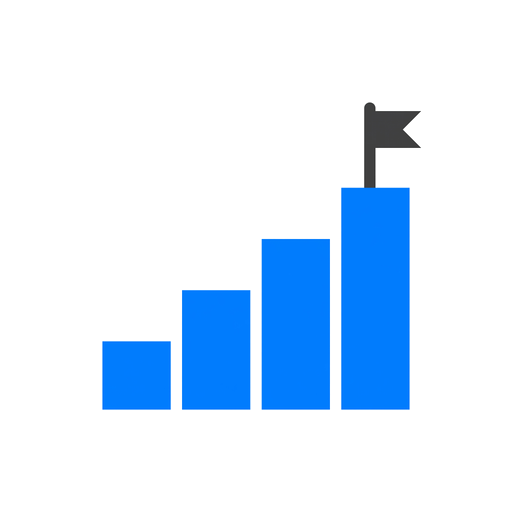
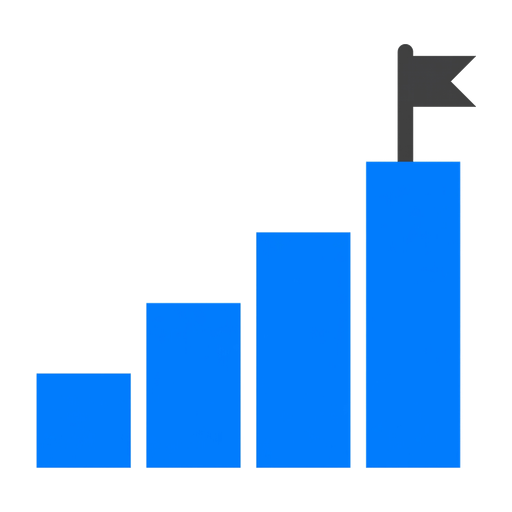
ファビコンのアイコンが小さく/ぶれて見える問題を修正
余白を詰めてアートワークをキャンバス全体に大きく配置し、16px版は
旗の細部を省いて棒グラフのみにすることで小サイズでの視認性を改善。
PWAインストール用にmaskableアイコンも追加。

Changed region(s): [[0.0625, 0.0625, 0.9375, 0.9375]]

diff --git a/src/app/manifest.ts b/src/app/manifest.ts
@@ -14,6 +14,13 @@ export default function manifest(): MetadataRoute.Manifest {
         src: "/icon.png",
         sizes: "512x512",
         type: "image/png",
+        purpose: "any",
+      },
+      {
+        src: "/maskable-icon.png",
+        sizes: "512x512",
+        type: "image/png",
+        purpose: "maskable",
       },
     ],
   };
